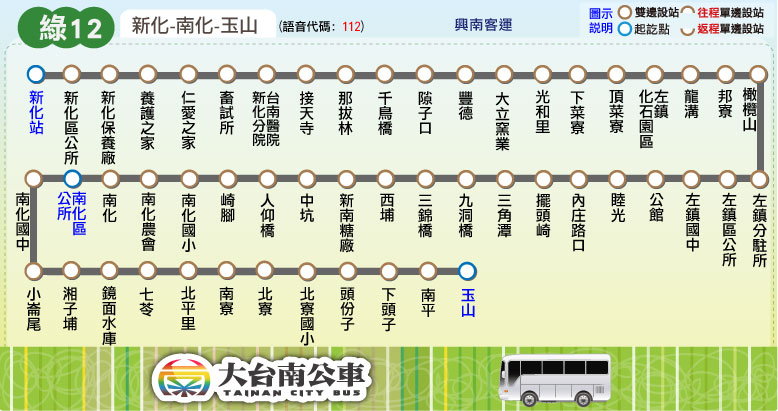
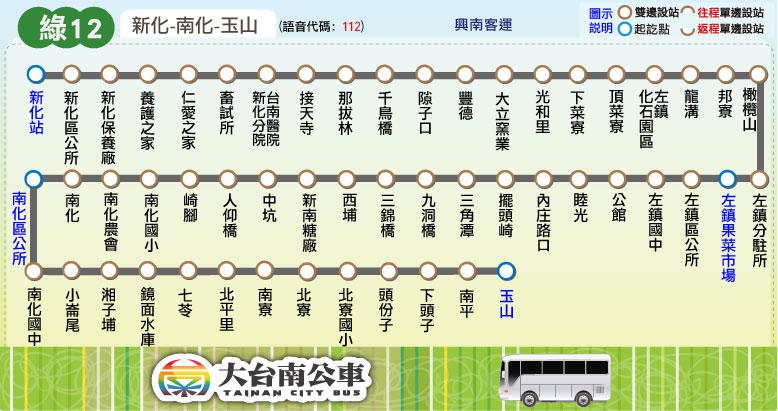
更新時刻表：綠12、綠17、紅4、橘11-1、橘12； 新增站位：綠幹線、綠12(增「左鎮果菜市場」)

diff --git a/route/fare_and_time/green_12.js b/route/fare_and_time/green_12.js
@@ -4,7 +4,7 @@ green_12_interval_stop = [
 ["畜試所","臺南醫院新化分院","接天寺","那拔林","千鳥橋"], // 那拔林
 ["隙仔口","豐德","大立窯業"], // 豐德
 ["光和里","下菜寮","頂菜寮","左鎮化石園區","龍溝"], // 化石館
-["邦寮","橄欖山","左鎮分駐所","左鎮區公所","左鎮國中"], // 左鎮
+["邦寮","橄欖山","左鎮分駐所","左鎮果菜市場","左鎮區公所","左鎮國中"], // 左鎮
 ["公館","睦光","內庄路口"], // 睦光
 ["擺頭崎","三角潭","九洞橋","三錦橋","西埔","新南糖廠","中坑","人仰橋"], // 中坑
 ["崎腳","南化國小","南化農會","南化","南化區公所","南化國中","小崙尾"], // 南化
@@ -28,12 +28,15 @@ green_12_fare = [
 // format = [time at the start stop] or
 // [time, other] or
 // [time, start_stop, end_stop, other]
-green_12_main_stop_name = ["新化","臺南醫院<br />新化分院","豐德","左鎮化<br />石園區","左鎮<br />區公所","內庄<br />路口","新南<br />糖廠","南化<br />區公所","鏡面<br />水庫","北寮","玉山"];
-green_12_main_stop_time_consume = [0, 8, 14, 17, 19, 21, 24, 30, 38, 46, 55];
-green_12_important_stop = [0, 3, 7, 10]; // 新化, 左鎮化石館, 南化, 玉山
-start_stop = 0; // 新化
-end_stop = 7; // 南化
-green_12_time_go = [["05:25",start_stop,end_stop],["07:00",start_stop,end_stop,['W']],["08:10",start_stop,end_stop,['W']],["08:20"],["08:40",start_stop,end_stop,['W']],
-["10:30"],["12:20"],["14:05",['W']],["15:40",start_stop,end_stop,['W']],["17:20",start_stop,end_stop,['W']],["18:15"],["21:20"]];
-green_12_time_return = [["06:00",end_stop,start_stop],["07:35",end_stop,start_stop,['W']],["08:45",end_stop,start_stop,['W']],["09:15",end_stop,start_stop,['W']],["09:15"],
-["11:30"],["13:20"],["15:00",['W']],["16:15",end_stop,start_stop,['W']],["17:55",end_stop,start_stop,['W']],["19:10"],["22:15"]];
+green_12_main_stop_name = ["新化","臺南醫院<br />新化分院","豐德","左鎮化<br />石園區","左鎮果<br />菜市場","內庄<br />路口","新南<br />糖廠","南化<br />區公所","鏡面<br />水庫","北寮","玉山"];
+green_12_main_stop_time_consume = [0, 8, 14, 17, 20, 23, 30, 35, 40, 46, 55];
+green_12_important_stop = [0, 4, 7, 10]; // 新化, 左鎮果菜市場, 南化區公所, 玉山
+var Sinhua = 0; // 新化
+var Zuojhen_Market = 4; // 左鎮果菜市場
+var Nanhua_District_Office = 7; // 南化
+green_12_time_go = [["05:25",Sinhua,Nanhua_District_Office],["07:00",Sinhua,Nanhua_District_Office,['W']],["07:35",Sinhua,Nanhua_District_Office,['W']],["08:10",Sinhua,Nanhua_District_Office,['W']],["08:20"],
+["09:35",Zuojhen_Market,Nanhua_District_Office,['W']],["10:25",Zuojhen_Market,Nanhua_District_Office,['W']],["10:30"],["11:20",Zuojhen_Market,Nanhua_District_Office,['W']],
+["12:20"],["13:00",Zuojhen_Market,Nanhua_District_Office,['W']],["13:55",Zuojhen_Market,Nanhua_District_Office,['W']],["14:05"],["15:40",Sinhua,Nanhua_District_Office,['W']],["17:20",Sinhua,Nanhua_District_Office,['W']],["18:15"],["21:20"]];
+green_12_time_return = [["06:00",Nanhua_District_Office,Sinhua],["07:35",Nanhua_District_Office,Sinhua,['W']],["08:15",Nanhua_District_Office,Zuojhen_Market,['W']],["08:45",Nanhua_District_Office,Sinhua,['W']],
+["09:15"],["10:00",Nanhua_District_Office,Zuojhen_Market,['W']],["10:50",Nanhua_District_Office,Zuojhen_Market,['W']],["11:30"],["12:30",Nanhua_District_Office,Zuojhen_Market,['W']],["13:25",Nanhua_District_Office,Zuojhen_Market,['W']],
+["13:20"],["14:45",Nanhua_District_Office,Sinhua,['W']],["15:00"],["16:15",Nanhua_District_Office,Sinhua,['W']],["17:55",Nanhua_District_Office,Sinhua,['W']],["19:10"],["22:15"]];

diff --git a/route/fare_and_time/green_17.js b/route/fare_and_time/green_17.js
@@ -25,9 +25,9 @@ green_17_fare = [
 // [time, other] or
 // [time, start_stop, end_stop, other]
 green_17_main_stop_name = ["安平<br />工業區","新光三越<br />新天地","臺南<br />火車站","崑山科大","大灣","西勢里","竹子腳<br />(大灣)","新化站"];
-green_17_main_stop_time_consume = [0, 10, 20, 32, 38, 42, 46, 50];
+green_17_main_stop_time_consume = [0, 10, 20, 35, 45, 50, 56, 60];
 green_17_important_stop = [0, 2, 3, 7]; // 安平工業區, 臺南火車站, 崑山大學, 新化站
-green_17_time_go = [["06:00"],["07:10"],["07:35",['W']],["08:10"],["09:10"],["10:10"],["11:10"],["12:10"],["12:40"],["13:10"],
-["14:10"],["14:30",['W']],["15:10"],["16:10"],["16:40"],["17:10"],["17:40"],["18:55"],["19:40"],["20:40"],["21:10"],["21:25"]];
-green_17_time_return = [["06:00"],["06:20"],["07:10"],["08:15"],["09:15"],["09:45"],["10:15",['W']],["10:45"],["11:45"],["12:15"],
+green_17_time_go = [["06:00"],["06:30",['W']],["07:10"],["08:10"],["09:10"],["10:10"],["11:10"],["12:10"],["12:40"],["13:10"],
+["14:10"],["15:10"],["16:10"],["16:40"],["17:10"],["17:40"],["18:55"],["19:40"],["20:40"],["21:10"],["21:25"]];
+green_17_time_return = [["06:00"],["06:20"],["07:10"],["08:15"],["09:15"],["09:45"],["10:45"],["11:45"],["12:15"],
 ["12:45"],["13:15"],["14:15"],["15:15"],["16:15"],["17:00",['W']],["17:30"],["18:10"],["18:30"],["19:15"],["20:15"],["21:00"]];

diff --git a/route/fare_and_time/red_4.js b/route/fare_and_time/red_4.js
@@ -21,5 +21,5 @@ red_4_fare = [
 red_4_main_stop_name = ["臺南公園<br />(公園路)","臺南<br />火車站","巴克禮<br />公園","中華醫事<br />科技大學","後壁厝","保安<br />轉運站","奇美<br />博物館"];
 red_4_main_stop_time_consume = [0, 5, 17, 30, 35, 45, 50];
 red_4_important_stop = [0, 1, 3, 5, 6]; // 臺南公園, 臺南火車站, 中華醫事科技大學, 保安轉運站, 奇美博物館
-red_4_time_go = [["07:20"],["09:35"],["10:35"],["11:25"],["12:25"],["13:55"],["14:45"],["15:45"],["16:15"],["19:05"],["19:25",['H']]];
-red_4_time_return = [["08:35"],["10:55"],["11:45"],["12:35"],["13:35"],["15:05"],["15:55"],["16:55"],["17:25"],["18:30",['H']],["20:00"]];
+red_4_time_go = [["07:20"],["09:35"],["10:35"],["11:25"],["12:25"],["13:55"],["14:45"],["15:45"],["16:15"],["19:05"]];
+red_4_time_return = [["08:35"],["10:55"],["11:45"],["12:35"],["13:35"],["15:05"],["15:55"],["16:55"],["17:25"],["20:00"]];

diff --git a/route/fare_and_time/orange_12.js b/route/fare_and_time/orange_12.js
@@ -43,5 +43,5 @@ orange_12_fare = [
 orange_12_main_stop_name = ["麻豆<br />轉運站","溪尾","善化<br />轉運站","南科<br />實中","新市<br />火車站","鹽行","奇美<br />醫院","成大醫院<br />(小東路)","臺南<br />火車站","臺南公園<br />(公園路)"];
 orange_12_main_stop_time_consume = [0, 15, 23, 40, 52, 63, 68, 77, 80, 85];
 orange_12_important_stop = [0, 2, 4, 6, 8, 9]; // 麻豆轉運站, 善化轉運站, 新市火車站, 奇美醫院, 臺南火車站, 臺南公園
-orange_12_time_go = [["06:30"],["06:40"],["08:30"],["10:30"],["13:30"],["16:55"],["17:50"],["18:30"],["20:20"]];
+orange_12_time_go = [["06:30"],["06:40"],["08:30"],["10:30"],["13:30"],["16:55"],["17:25"],["18:30"],["19:30"]];
 orange_12_time_return = [["06:10"],["07:25"],["08:25"],["09:25"],["11:25"],["14:25"],["16:20"],["17:35"],["21:10"]];

diff --git a/tools/transfer_information.js b/tools/transfer_information.js
@@ -364,6 +364,11 @@ transfer_yongkang = '<tr><th>永康</th>\
 <td style="text-align: center"><img src="' + LOGO_DIR_PATH + 'green_transfer_logo.png"></td>\
 	<td id="green">' + link_green + '、' + link_green_5 + '</td></tr>';
 
+transfer_zuozhen_agricultural_product_market = '<tr><th>左鎮果菜市場</th>\
+<td style="text-align: center"><img src="' + LOGO_DIR_PATH + 'green_transfer_logo.png"></td>\
+	<td id="green"><p>' + link_green + '、' + link_green_12 + '</p>'
+	+ link_green_13 + '<font color="#FFFFFF" size="-1">(需步行一站至左鎮區公所搭乘)</font></td></tr>';
+
 transfer_zuozhen_district_office = '<tr><th>左鎮區公所</th>\
 <td style="text-align: center"><img src="' + LOGO_DIR_PATH + 'green_transfer_logo.png"></td>\
 	<td id="green"><p>' + link_green_12 + '、' + link_green_13 + '</p>'

diff --git a/green/green_12.html b/green/green_12.html
@@ -20,8 +20,8 @@
 	block_route_map(null);
 	block_route_info(route_interval,'興南客運','','里程計費','http://www.2384.com.tw/ebus/jsp/ajaxBus.jsp?pathId=1112&locale=zh_TW');
 	block_fare(0, null);
-	block_time_schedule('新化','南化區公所/玉山',W_message);
-	block_transfer(transfer_hsinhua + transfer_zuozhen_district_office + transfer_nanhua_district_office);
+	block_time_schedule('新化站/左鎮果菜市場','南化區公所/玉山',W_message);
+	block_transfer(transfer_hsinhua + transfer_zuozhen_agricultural_product_market + transfer_zuozhen_district_office + transfer_nanhua_district_office);
 	block_copyright();
 </script>
 </body>

diff --git a/route/fare_and_time/green.js b/route/fare_and_time/green.js
@@ -9,7 +9,7 @@ green_interval_stop = [
 ["畜試所","臺南醫院新化分院","接天寺","那拔林","千鳥橋"], // 那拔林
 ["隙仔口","豐德","大立窯業"], // 豐德
 ["光和里","下菜寮","頂菜寮","左鎮化石園區","龍溝"], // 化石館
-["邦寮","橄欖山","左鎮分駐所","左鎮","東屏厝","睦光里"], // 左鎮
+["邦寮","橄欖山","左鎮分駐所","左鎮果菜市場","左鎮","東屏厝","睦光里"], // 左鎮
 ["竹坑","莿桐腳","後坑","九層林"], // 九層林
 ["愛文山","松腳","玉井懷恩堂","倒松","劉陳","望明口","玉山新城","新庄","玉井工商","玉井站"] // 玉井
 ];

diff --git a/green/green.html b/green/green.html
@@ -21,7 +21,7 @@
 	block_route_info(route_interval,'興南客運','尖15離30','里程計費','http://www.2384.com.tw/ebus/jsp/ajaxBus.jsp?pathId=1100&locale=zh_TW');
 	block_fare(0, null);
 	block_time_schedule('臺南公園(公園路)','玉井',W_message+'；'+L_message);
-	block_transfer(transfer_tainan_railway_station + transfer_hsinhua + transfer_yujing);
+	block_transfer(transfer_tainan_railway_station + transfer_hsinhua + transfer_zuozhen_agricultural_product_market + transfer_yujing);
 	block_copyright();
 </script>
 </body>

diff --git a/red/red_4.html b/red/red_4.html
@@ -20,7 +20,7 @@
 	block_route_map(null);
 	block_route_info(route_interval,'興南客運','','里程計費','http://www.2384.com.tw/ebus/jsp/ajaxBus.jsp?pathId=1604&locale=zh_TW');
 	block_fare(0, null);
-	block_time_schedule('臺南公園(公園路)','奇美博物館',H_message);
+	block_time_schedule('臺南公園(公園路)','奇美博物館','');
 	block_transfer(transfer_tainan_railway_station + transfer_rende_railway_station + transfer_baoan_railway_station);
 	block_copyright();
 </script>

diff --git a/route/fare_and_time/orange_11_1.js b/route/fare_and_time/orange_11_1.js
@@ -35,5 +35,5 @@ orange_11_1_time_go = [["06:00"],["08:00",Madou,Tainan_Park],["09:05",Madou,Tain
 ];
 orange_11_1_time_return = [["07:25",Tainan_Park,Madou],["09:40",Tainan_Park,Madou],["10:30"],
 ["12:50",Tainan_Park,Madou],["14:00",Tainan_Park,Madou],["15:40",Tainan_Park,Madou],
-["16:20",Tainan_Park,Madou],["17:00"],["20:40"]
+["16:10",Tainan_Park,Madou],["17:00"],["20:40"]
 ];
